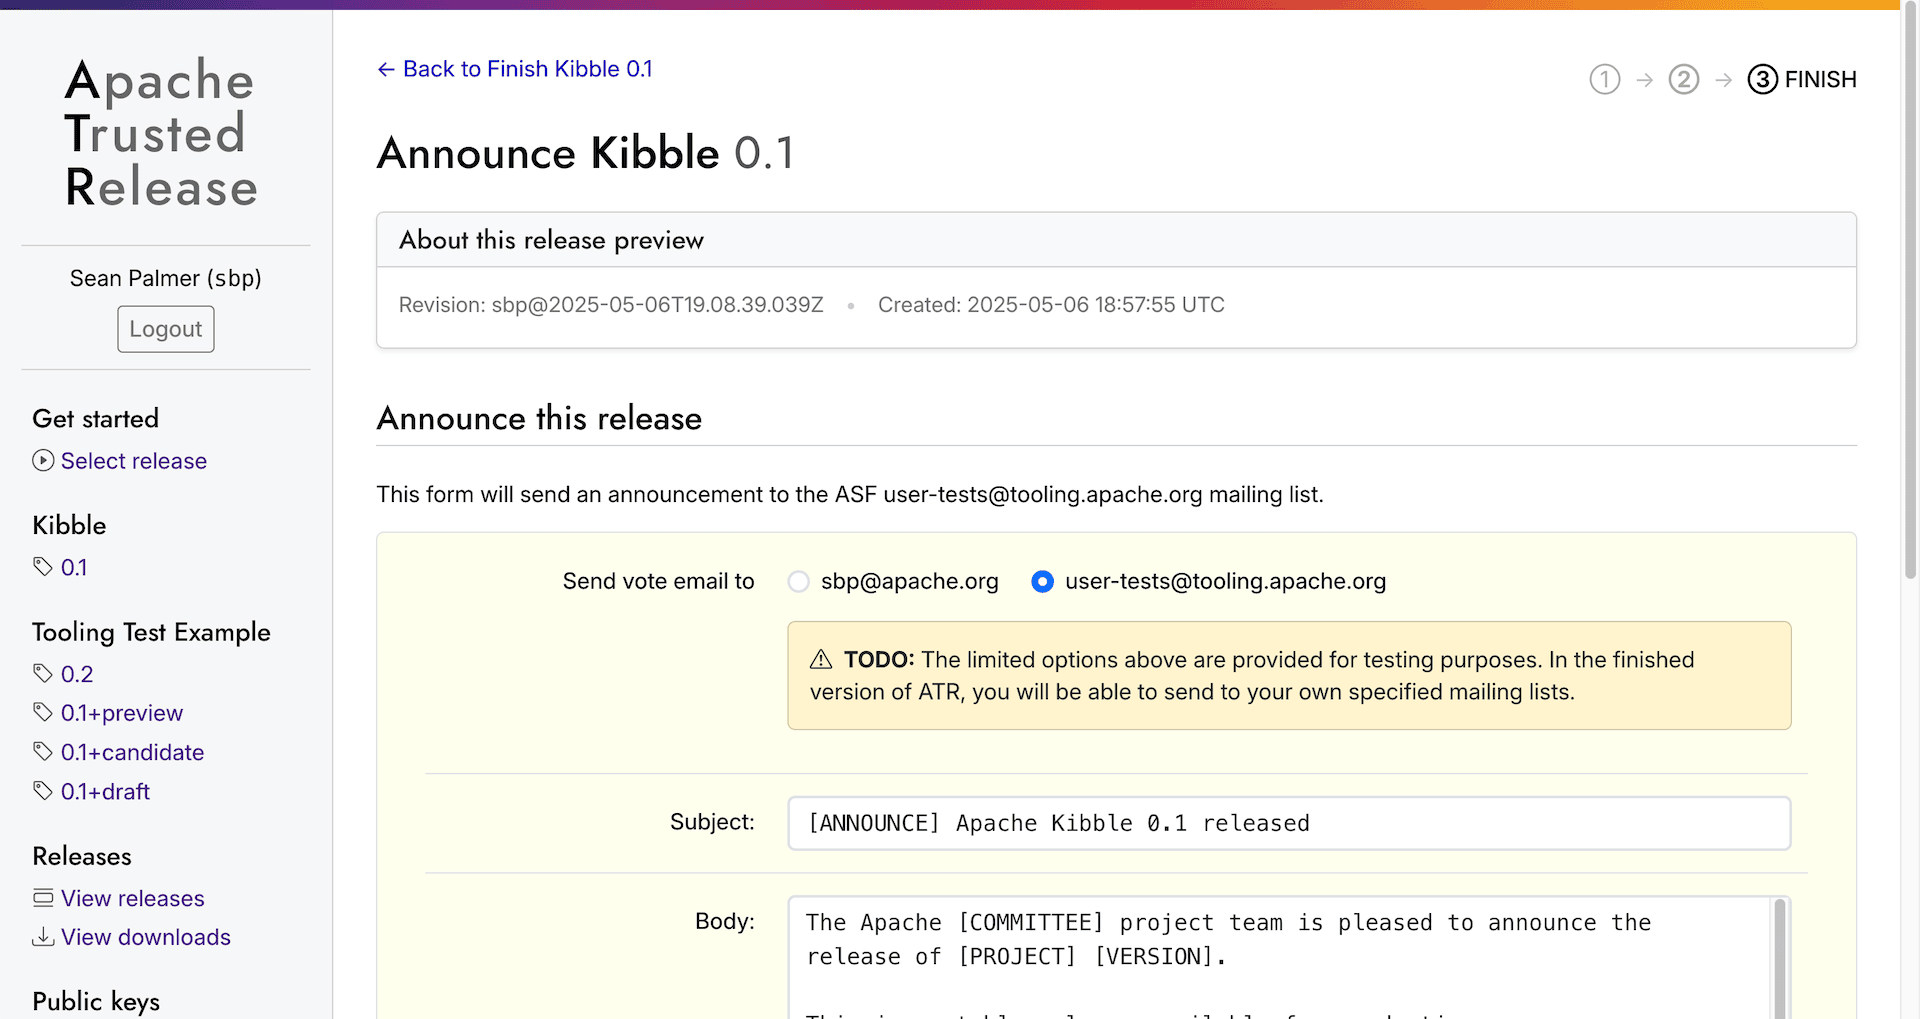
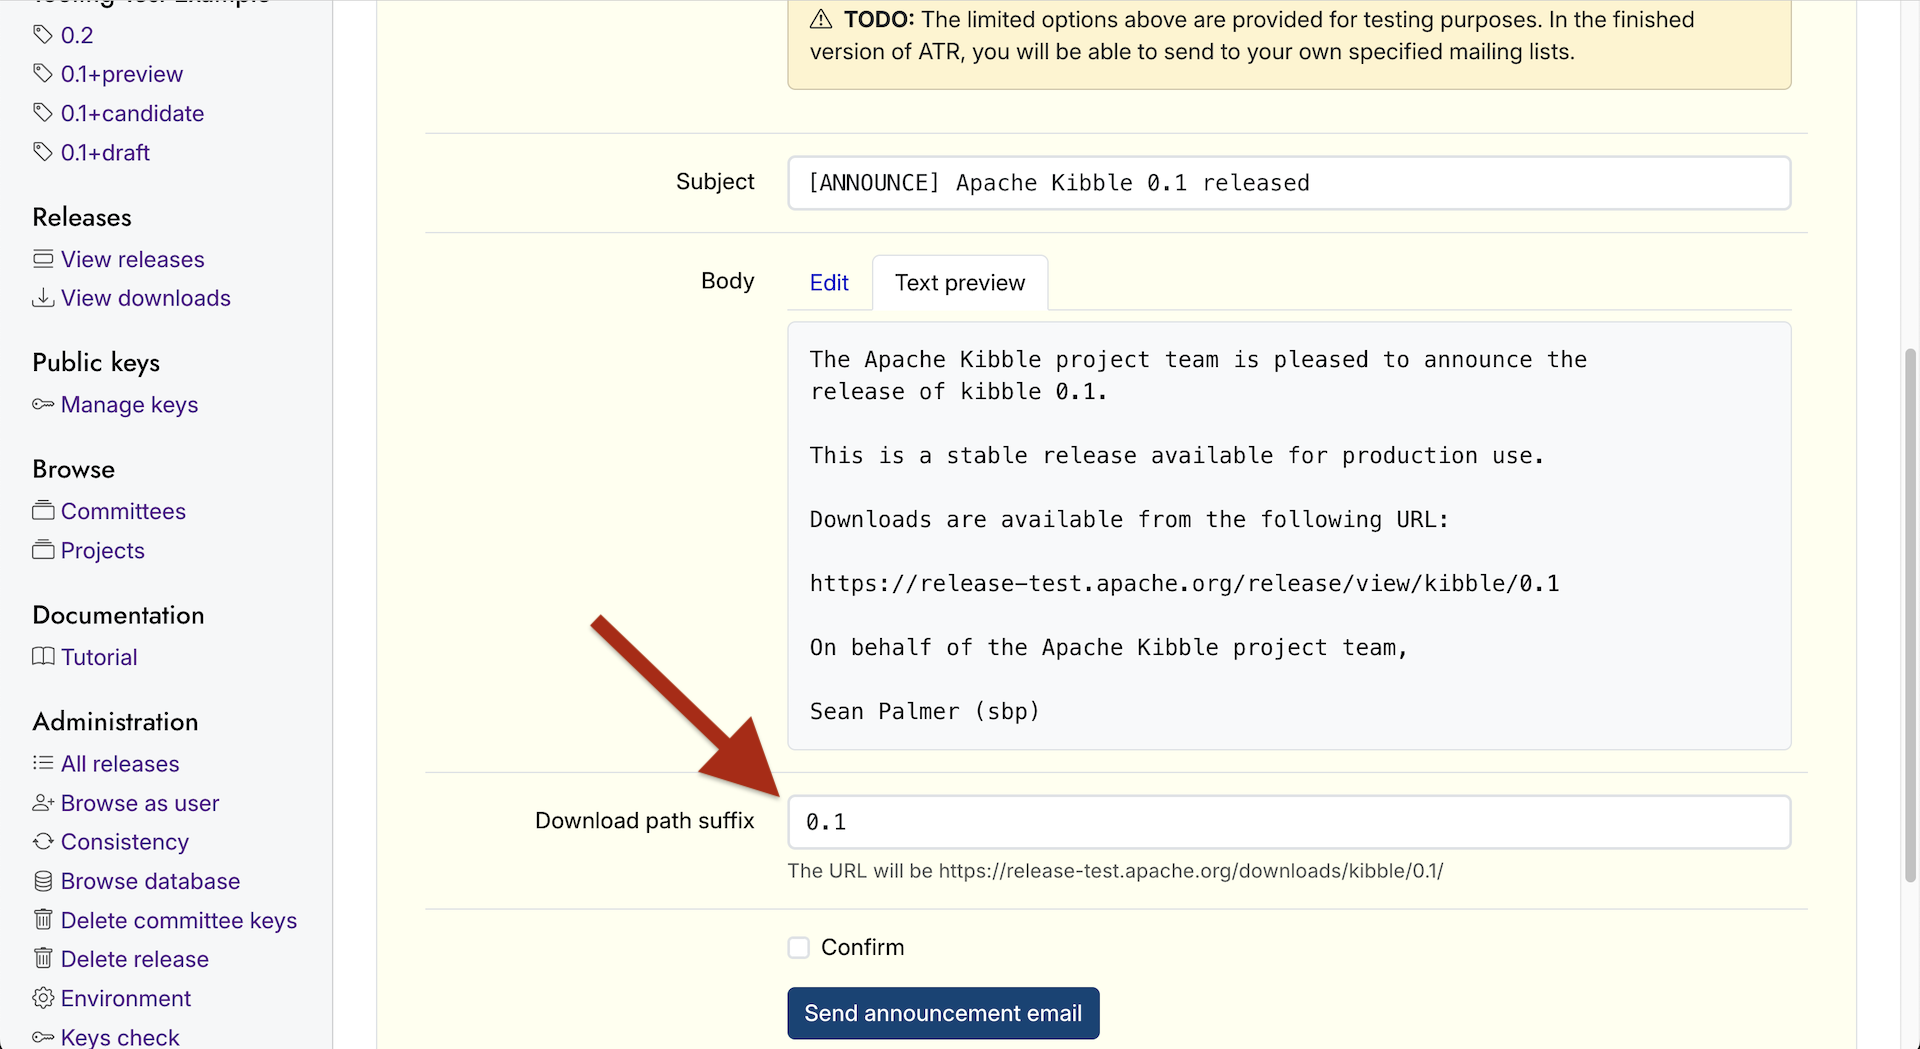
Demonstrate the use of the download path suffix field in the tutorial

diff --git a/atr/templates/tutorial.html b/atr/templates/tutorial.html
@@ -109,7 +109,7 @@
          alt="Illustration: Use the Announce and distribute button." />
   </p>
   <p>
-    Using the announcement form sends a message to your selected mailing list. Destination options are limited during the testing phase.
+    Using the announcement form sends a message to your selected mailing list. Use the <strong>Download path suffix</strong> field to choose a specific location from which users can download your release artifacts.
   </p>
   <p>
     <img src="{{ url_for('static', filename='png/tutorial-finish-02.png') }}"
